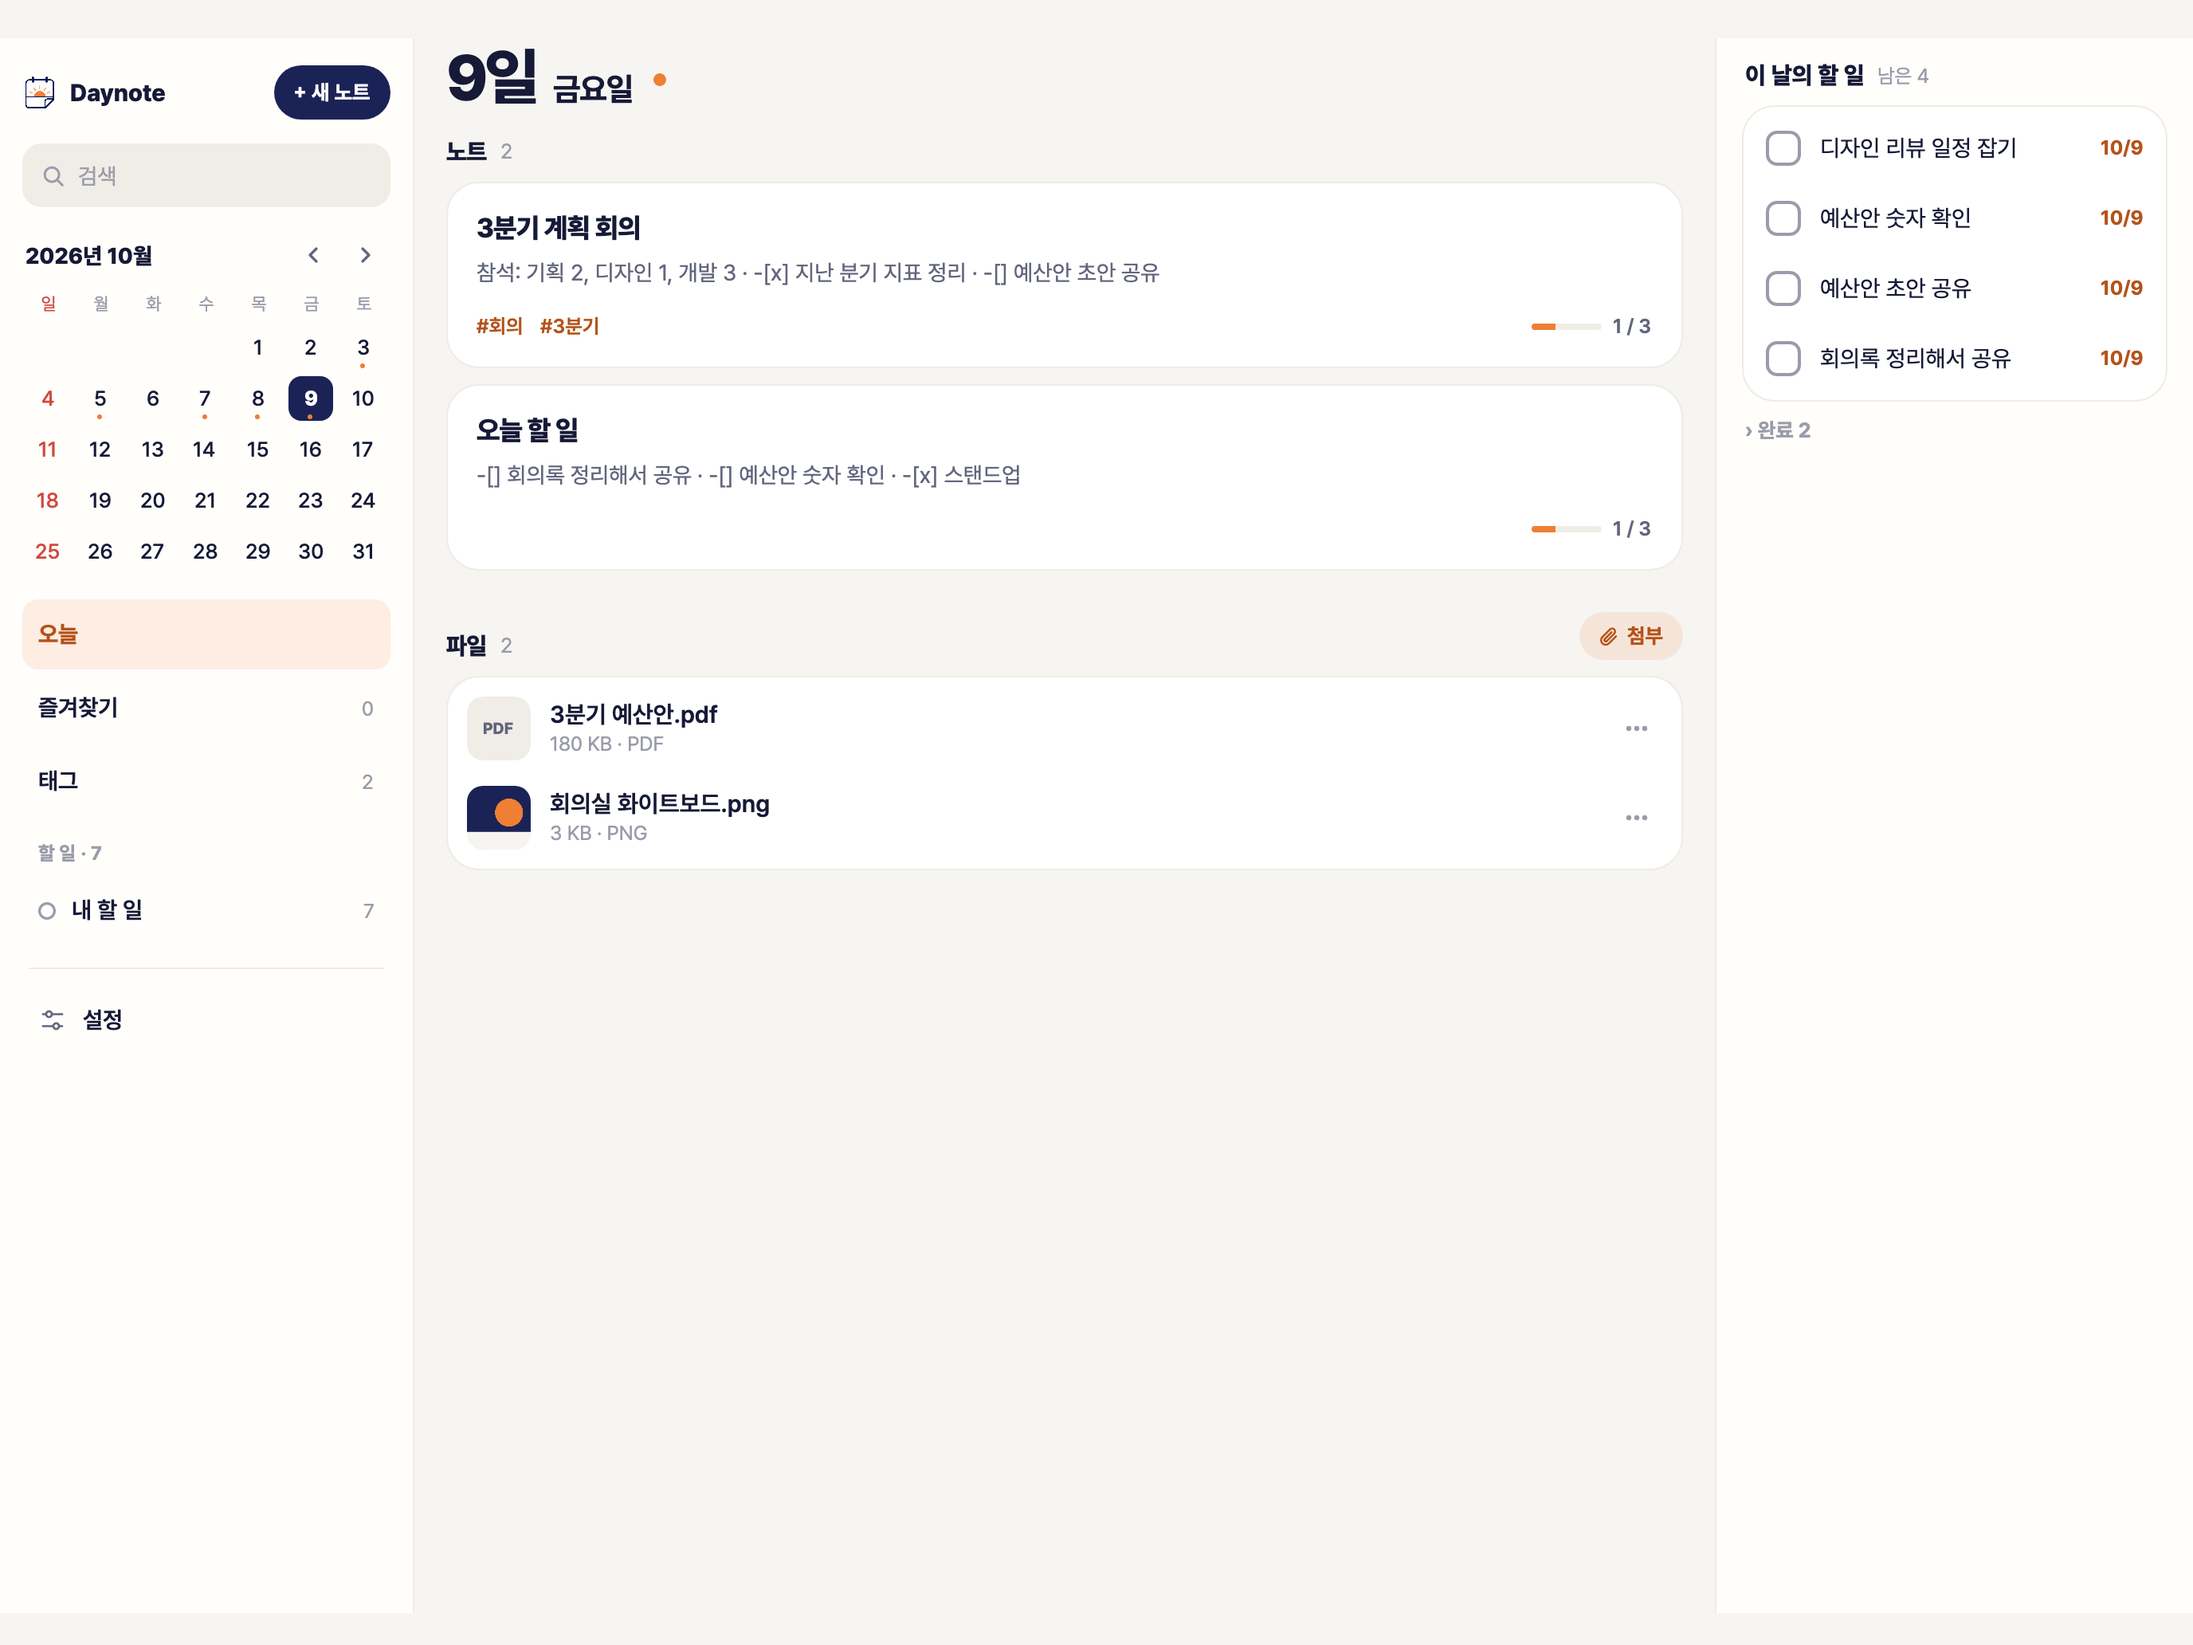
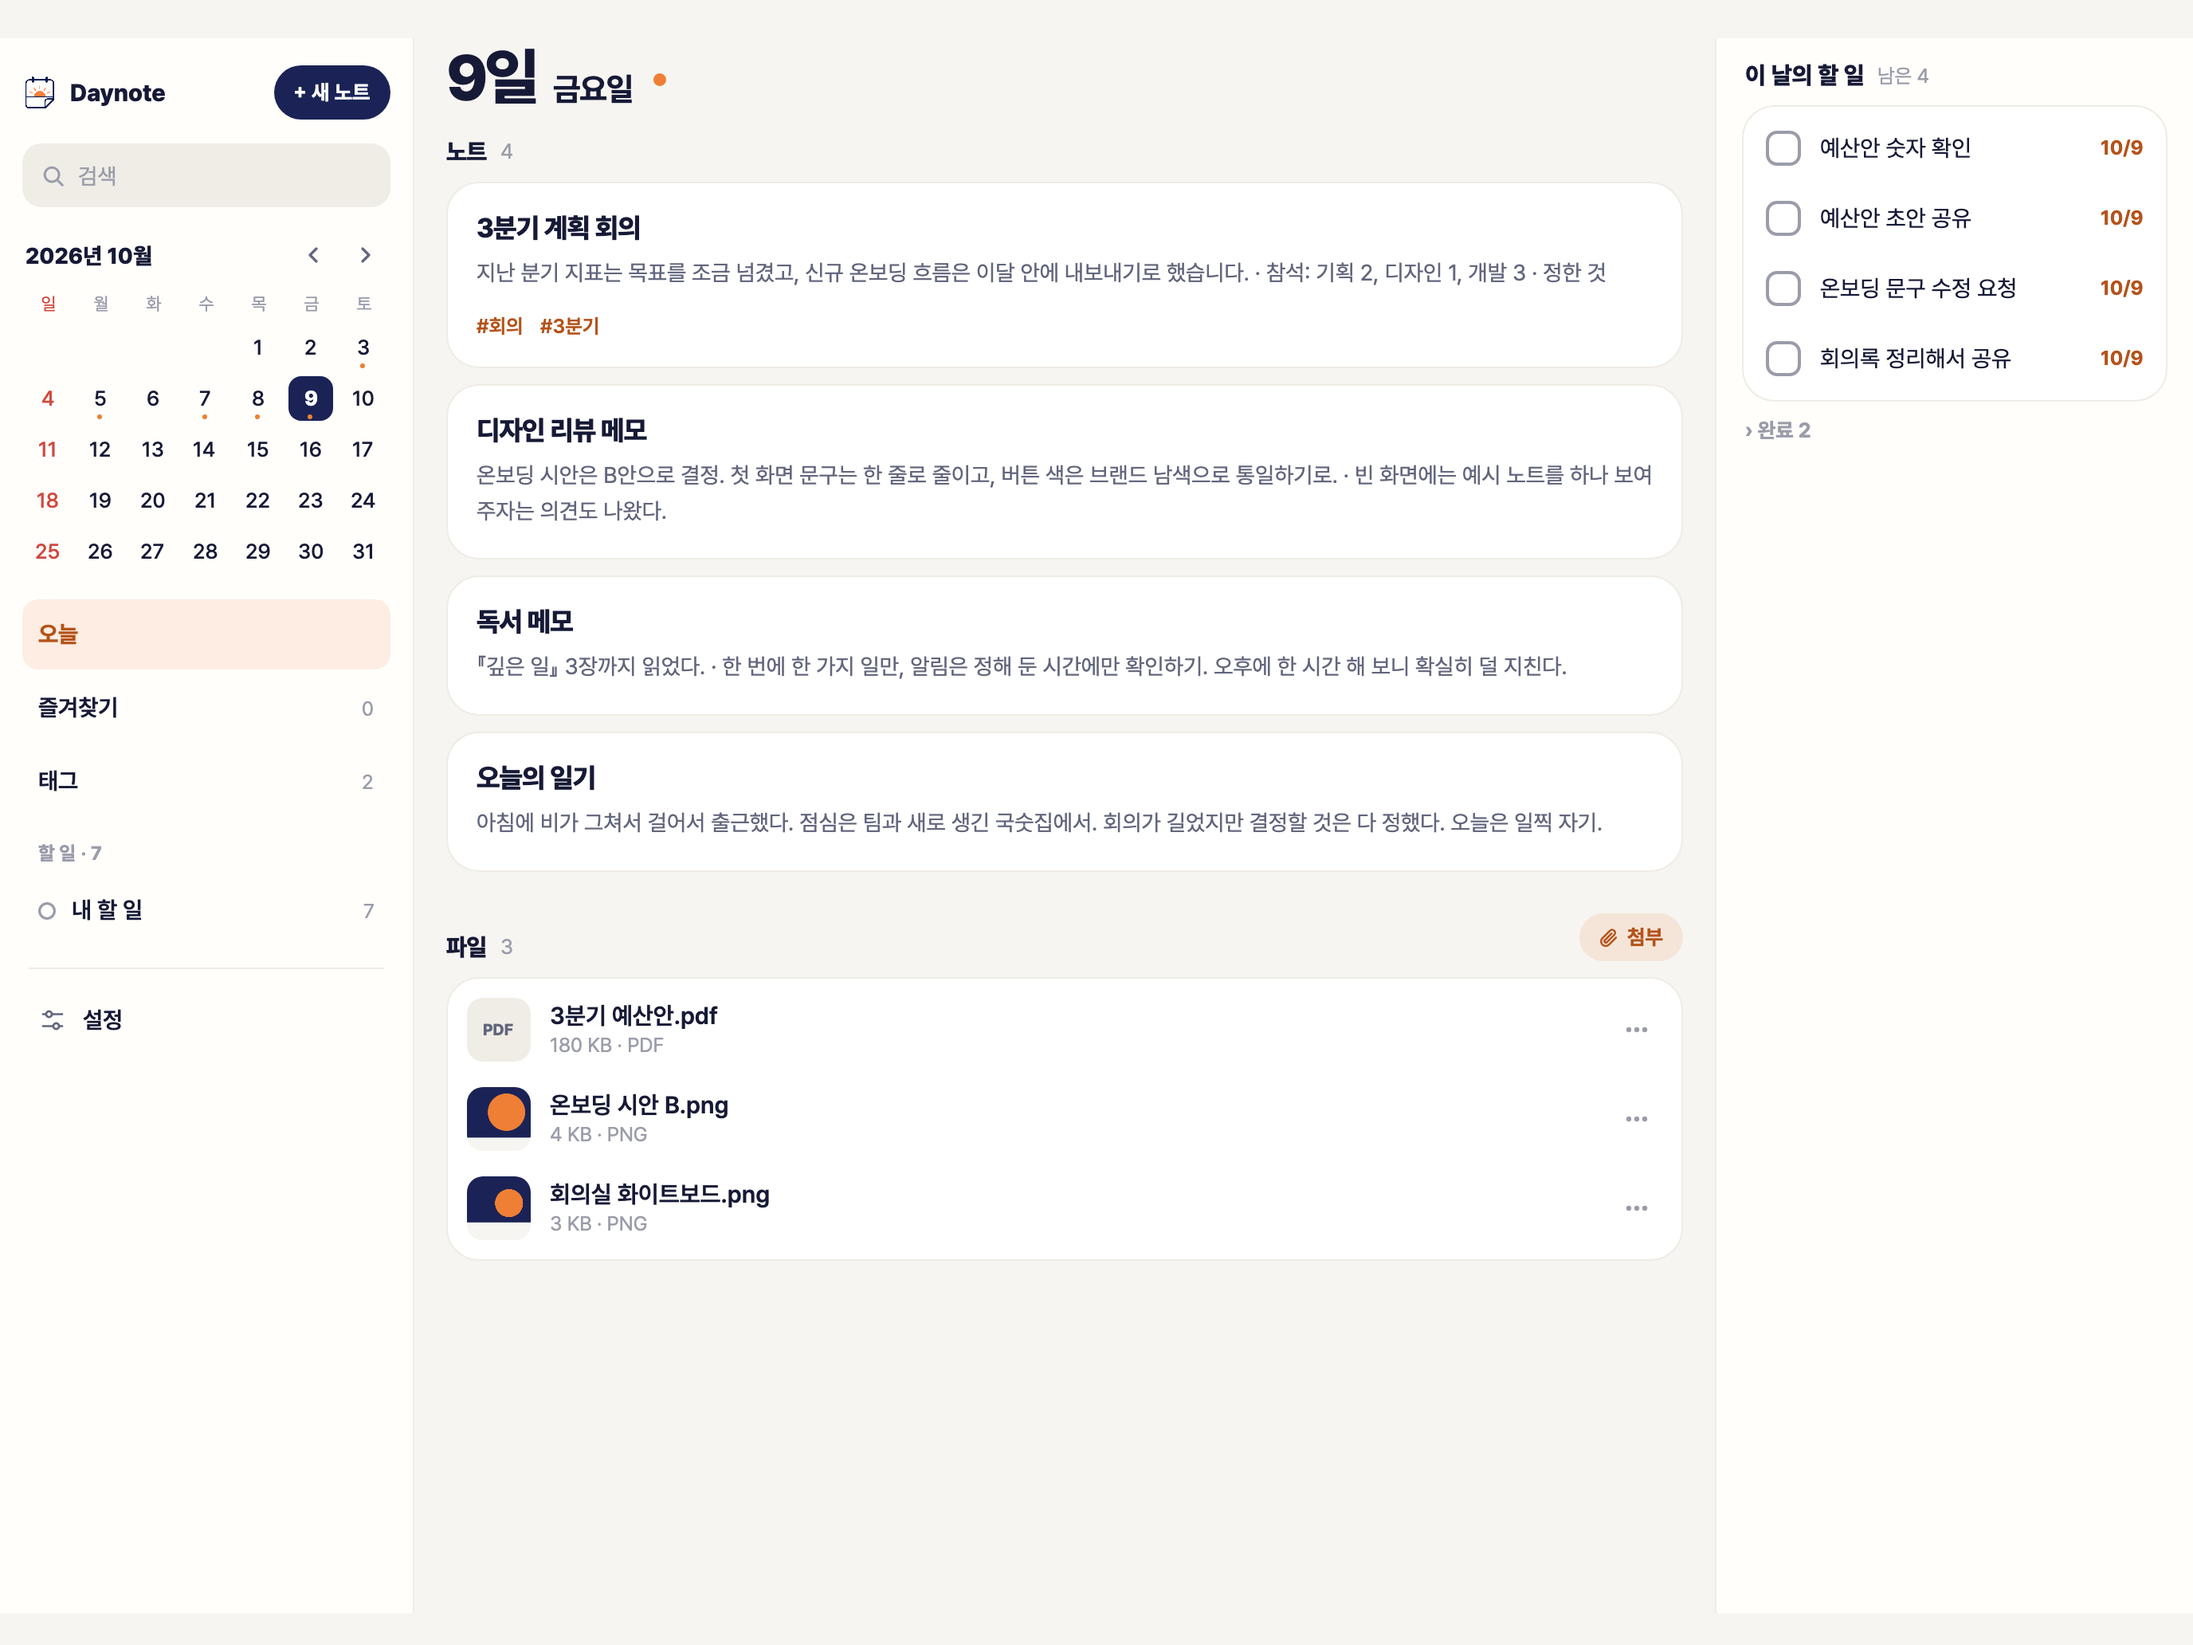
docs(brand): the iPad App Store images without checkbox markup, and a fuller day
The Tablet targets get their own seed: note bodies in prose and plain bullet
lines, the to-dos saved straight into the agenda, two more notes for the day
(a design review, a reading note, a journal entry in place of the to-do list)
and a third file. The phone and Play seeds are unchanged.

diff --git a/tests/Daynote.Mobile.Tests/StoreScreenshotTests.cs b/tests/Daynote.Mobile.Tests/StoreScreenshotTests.cs
@@ -6,6 +6,7 @@ using Avalonia.Media.Imaging;
 using Avalonia.Threading;
 using Daynote.App.Composition;
 using Daynote.App.Localization;
+using Daynote.Core.Agenda;
 using Daynote.Core.Domain;
 using Daynote.Core.Notes;
 using Daynote.Mobile.ViewModels;
@@ -129,12 +130,16 @@ public sealed class StoreScreenshotTests
                 host.Show();
 
                 Wait(shell.InitializeAsync());
-                Seed(shell, language);
+                // The Tablet layout shows whole note previews, the day's files and a to-do panel
+                // where a phone's first screen shows a few lines, so it gets a fuller day written
+                // as prose, with its to-dos put straight into the agenda rather than written as
+                // checkbox lines a store visitor would read as markup.
+                bool tablet = target.LogicalWidth >= MobileLayouts.TabletWidth;
+                Seed(shell, language, tablet);
                 ScreenshotTests.CaptureSeededTodos(provider);
-                if (target.LogicalWidth >= MobileLayouts.TabletWidth)
+                if (tablet)
                 {
-                    // The Tablet layout shows the day's files under its notes, where a phone's
-                    // first screen never reaches.
+                    SeedTodos(provider, language);
                     SeedFiles(shell, language);
                 }
 
@@ -190,20 +195,32 @@ public sealed class StoreScreenshotTests
         }
     }
 
-    private static void Seed(MobileShellViewModel shell, AppLanguage language)
+    private static void Seed(MobileShellViewModel shell, AppLanguage language, bool tablet)
     {
         bool korean = language == AppLanguage.Korean;
         LocalDate today = LocalDates.FromDateOnly(DateOnly.FromDateTime(DateTime.Now));
 
         // Earlier days first, so the calendar shows a month with a history in it.
-        foreach (Entry entry in korean ? KoreanHistory : EnglishHistory)
+        foreach (Entry entry in (korean, tablet) switch
+        {
+            (true, true) => TabletKoreanHistory,
+            (true, false) => KoreanHistory,
+            (false, true) => TabletEnglishHistory,
+            (false, false) => EnglishHistory,
+        })
         {
             Wait(shell.SelectDateAsync(LocalDates.AddDays(today, -entry.DaysAgo)));
             WriteNote(shell, entry.Title, entry.Body);
         }
 
         Wait(shell.SelectDateAsync(today));
-        foreach (Entry entry in korean ? KoreanToday : EnglishToday)
+        foreach (Entry entry in (korean, tablet) switch
+        {
+            (true, true) => TabletKoreanToday,
+            (true, false) => KoreanToday,
+            (false, true) => TabletEnglishToday,
+            (false, false) => EnglishToday,
+        })
         {
             WriteNote(shell, entry.Title, entry.Body);
         }
@@ -219,10 +236,44 @@ public sealed class StoreScreenshotTests
         Pump();
     }
 
+    private static void SeedTodos(IServiceProvider provider, AppLanguage language)
+    {
+        var agenda = provider.GetRequiredService<IAgendaRepository>();
+        LocalDate today = LocalDates.FromDateOnly(DateOnly.FromDateTime(DateTime.Now));
+        foreach (Todo todo in language == AppLanguage.Korean ? TabletKoreanTodos : TabletEnglishTodos)
+        {
+            LocalDate day = LocalDates.AddDays(today, -todo.DaysAgo);
+            Wait(agenda.SaveAsync(new AgendaItem(
+                Guid.NewGuid(),
+                AgendaList.DefaultId,
+                AgendaKind.Task,
+                todo.Title,
+                string.Empty,
+                "Asia/Seoul",
+                StartsAt: null,
+                EndsAt: null,
+                DueAt: new WallClock(new DateTime(day.Year, day.Month, day.Day, 0, 0, 0)),
+                HasDueTime: false,
+                Rrule: null,
+                SeriesId: null,
+                RecurrenceId: null,
+                todo.Done ? AgendaStatus.Completed : AgendaStatus.NeedsAction,
+                CompletedUtc: todo.Done ? DateTimeOffset.UtcNow : null,
+                Priority: 0,
+                TimelineVisibility.Auto,
+                SourceNoteId: null,
+                ExceptionDates: [],
+                AgendaAlert.None,
+                DateTimeOffset.UtcNow,
+                DateTimeOffset.UtcNow)).AsTask());
+        }
+    }
+
     private static void SeedFiles(MobileShellViewModel shell, AppLanguage language)
     {
         bool korean = language == AppLanguage.Korean;
         Wait(AddFile(shell, korean ? "회의실 화이트보드.png" : "Whiteboard.png", ScreenshotTests.SamplePng(320, 240)));
+        Wait(AddFile(shell, korean ? "온보딩 시안 B.png" : "Onboarding mockup B.png", ScreenshotTests.SamplePng(240, 320)));
         Wait(AddFile(shell, korean ? "3분기 예산안.pdf" : "Q3 budget draft.pdf", new byte[184_320]));
         Wait(shell.Files.RefreshAsync());
     }
@@ -295,6 +346,8 @@ public sealed class StoreScreenshotTests
 
     private readonly record struct Entry(int DaysAgo, string Title, string Body);
 
+    private readonly record struct Todo(int DaysAgo, string Title, bool Done = false);
+
     private static readonly Entry[] KoreanHistory =
     [
         new(9, "주간 회고", "이번 주에 끝낸 것\n- 온보딩 화면 세 가지 시안\n- 검색 속도 개선\n\n-[x] 회고 정리해서 공유"),
@@ -323,5 +376,67 @@ public sealed class StoreScreenshotTests
     [
         new(0, "Q3 planning meeting", "Attending: product 2, design 1, engineering 3\n\n-[x] Last quarter's numbers\n-[] Share the budget draft\n-[] Book the design review\n\nDecided\n- Ship the new onboarding flow this month.\n- Search first has to find two-letter words."),
         new(0, "Today", "-[] Send the meeting notes\n-[] Check the budget figures\n-[x] Stand-up"),
+    ];
+
+    private static readonly Entry[] TabletKoreanHistory =
+    [
+        new(9, "주간 회고", "이번 주에 끝낸 것\n- 온보딩 화면 세 가지 시안\n- 검색 속도 개선\n\n다음 주에는 스프린트를 조금 짧게 잡아 보기로."),
+        new(6, "장보기", "커피 원두, 우유, 세제\n주말 장은 토요일 오전에 한 번에."),
+        new(4, "읽을거리", "저장해 둔 링크들\n\n- 타이포그래피 기초\n- 좋은 회의록 쓰는 법"),
+        new(2, "면담 준비", "물어볼 것: 온보딩 일정, 팀 구성\n이력서와 포트폴리오는 미리 정리해 두기."),
+        new(1, "운동 기록", "러닝 5km · 28분\n다음 주 목표: 주 3회"),
+    ];
+
+    private static readonly Entry[] TabletKoreanToday =
+    [
+        new(0, "3분기 계획 회의", "지난 분기 지표는 목표를 조금 넘겼고, 신규 온보딩 흐름은 이달 안에 내보내기로 했습니다.\n참석: 기획 2, 디자인 1, 개발 3\n\n정한 것\n- 온보딩은 이달 셋째 주에 출시\n- 검색은 두 글자로도 찾히게 하는 것이 먼저\n- 예산안은 금요일까지 공유\n\n다음 회의는 디자인 리뷰가 끝난 뒤에."),
+        new(0, "디자인 리뷰 메모", "온보딩 시안은 B안으로 결정. 첫 화면 문구는 한 줄로 줄이고, 버튼 색은 브랜드 남색으로 통일하기로.\n\n빈 화면에는 예시 노트를 하나 보여 주자는 의견도 나왔다."),
+        new(0, "독서 메모", "『깊은 일』 3장까지 읽었다.\n한 번에 한 가지 일만, 알림은 정해 둔 시간에만 확인하기. 오후에 한 시간 해 보니 확실히 덜 지친다."),
+        new(0, "오늘의 일기", "아침에 비가 그쳐서 걸어서 출근했다. 점심은 팀과 새로 생긴 국숫집에서. 회의가 길었지만 결정할 것은 다 정했다. 오늘은 일찍 자기."),
+    ];
+
+    private static readonly Todo[] TabletKoreanTodos =
+    [
+        new(9, "회고 정리해서 공유", Done: true),
+        new(6, "세제 사기"),
+        new(2, "이력서 최신화"),
+        new(2, "포트폴리오 정리"),
+        new(0, "지난 분기 지표 정리", Done: true),
+        new(0, "스탠드업", Done: true),
+        new(0, "예산안 초안 공유"),
+        new(0, "온보딩 문구 수정 요청"),
+        new(0, "회의록 정리해서 공유"),
+        new(0, "예산안 숫자 확인"),
+    ];
+
+    private static readonly Entry[] TabletEnglishHistory =
+    [
+        new(9, "Weekly review", "Finished this week\n- Three onboarding mockups\n- Faster search\n\nNext week we try a slightly shorter sprint."),
+        new(6, "Groceries", "Coffee beans, milk, detergent\nOne big shop on Saturday morning."),
+        new(4, "Reading list", "Saved links\n\n- Typography basics\n- How to write good meeting notes"),
+        new(2, "Interview prep", "To ask: onboarding timeline, team size\nTidy the résumé and portfolio beforehand."),
+        new(1, "Workout log", "Run 5 km · 28 min\nNext week: three times"),
+    ];
+
+    private static readonly Entry[] TabletEnglishToday =
+    [
+        new(0, "Q3 planning meeting", "Last quarter came in a little over target, and the new onboarding flow ships this month.\nAttending: product 2, design 1, engineering 3\n\nDecided\n- Onboarding goes out in the third week\n- Search first has to find two-letter words\n- Budget draft shared by Friday\n\nNext meeting after the design review."),
+        new(0, "Design review notes", "Going with onboarding mockup B. The first screen's copy gets cut to one line, and every button goes brand navy.\n\nSomeone suggested showing one sample note on an empty day."),
+        new(0, "Reading notes", "Up to chapter 3 of Deep Work.\nOne thing at a time, and notifications only at set hours. Tried it for an hour this afternoon and felt far less worn out."),
+        new(0, "Journal", "The rain stopped in the morning, so I walked to work. Lunch with the team at the new noodle place. A long meeting, but we settled everything. Early night tonight."),
+    ];
+
+    private static readonly Todo[] TabletEnglishTodos =
+    [
+        new(9, "Share the review", Done: true),
+        new(6, "Buy detergent"),
+        new(2, "Update my résumé"),
+        new(2, "Tidy the portfolio"),
+        new(0, "Last quarter's numbers", Done: true),
+        new(0, "Stand-up", Done: true),
+        new(0, "Share the budget draft"),
+        new(0, "Request copy edits"),
+        new(0, "Send the meeting notes"),
+        new(0, "Check the budget figures"),
     ];
 }
